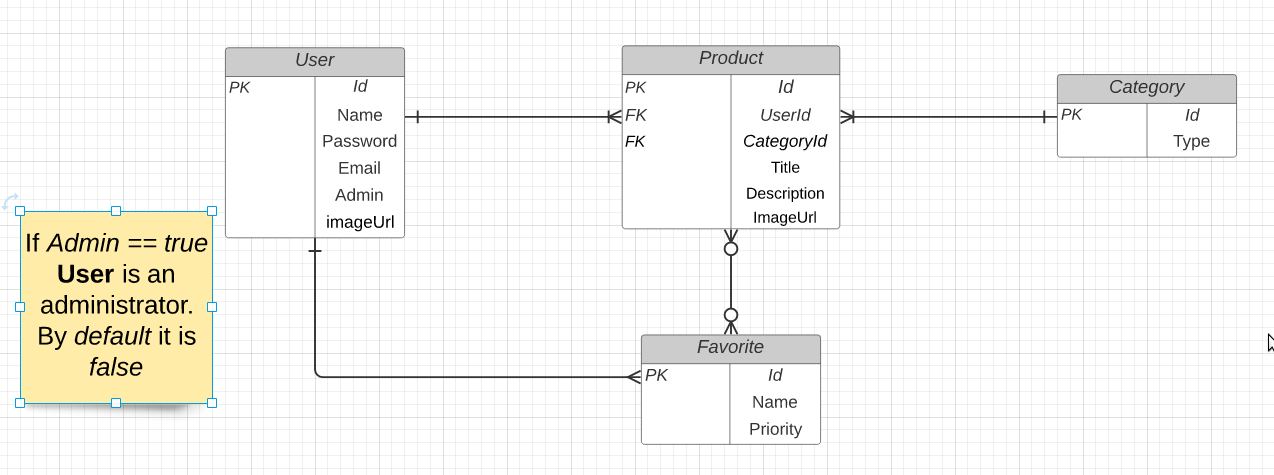
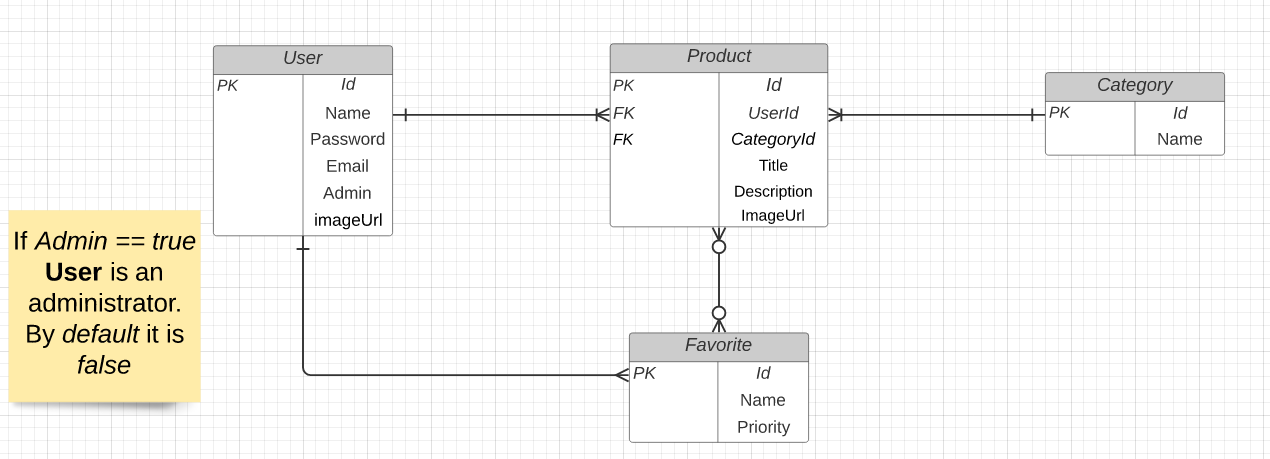
Add request specs for Category

diff --git a/spec/requests/categories_request_spec.rb b/spec/requests/categories_request_spec.rb
@@ -1,0 +1,98 @@
+require 'rails_helper'
+
+RSpec.describe 'Categories', type: :request do
+  let!(:categories) { create_list(:category, 10) }
+  let(:category_id) { categories.first.id }
+
+  describe 'GET /categories' do
+    before { get '/categories' }
+    it 'returns categories' do
+      expect(json).not_to be_empty
+      expect(json.size).to eq(10)
+    end
+
+    it 'returns status code 200' do
+      expect(response).to have_http_status(200)
+    end
+  end
+
+  describe 'GET /categories/:id' do
+    before { get "/categories/#{category_id}" }
+
+    context 'when the record exists' do
+      it 'returns the category' do
+        expect(json).not_to be_empty
+        expect(json['id']).to eq(category_id)
+      end
+
+      it 'returns status code 200' do
+        expect(response).to have_http_status(200)
+      end
+    end
+
+    context 'when the record does not exist' do
+      let(:category_id) { 100 }
+
+      it 'returns status code 404' do
+        expect(response).to have_http_status(404)
+      end
+
+      it 'returns a not found message' do
+        expect(response.body).to match(/Couldn't find Category/)
+      end
+    end
+  end
+
+  describe 'POST /categories' do
+    let(:valid_attributes) { { name: 'Learn Elm' } }
+
+    context 'when the request is valid' do
+      before { post '/categories', params: valid_attributes }
+
+      it 'creates a category' do
+        expect(json['name']).to eq('Learn Elm')
+      end
+
+      it 'returns status code 201' do
+        expect(response).to have_http_status(201)
+      end
+    end
+
+    context 'when the request is invalid' do
+      before { post '/categories', params: { name: '' } }
+
+      it 'returns status code 422' do
+        expect(response).to have_http_status(422)
+      end
+
+      it 'returns a validation failure message' do
+        expect(response.body)
+          .to match(/Validation failed: Name can't be blank/)
+      end
+    end
+  end
+
+  describe 'PUT /categories/:id' do
+    let(:valid_attributes) { { name: 'E-tech' } }
+
+    context 'when the record exists' do
+      before { put "/categories/#{category_id}", params: valid_attributes }
+
+      it 'updates the record' do
+        expect(response.body).to be_empty
+      end
+
+      it 'returns status code 204' do
+        expect(response).to have_http_status(204)
+      end
+    end
+  end
+
+  describe 'DELETE /categories/:id' do
+    before { delete "/categories/#{category_id}" }
+
+    it 'returns status code 204' do
+      expect(response).to have_http_status(204)
+    end
+  end
+end

diff --git a/spec/rails_helper.rb b/spec/rails_helper.rb
@@ -21,7 +21,7 @@ require 'rspec/rails'
 # directory. Alternatively, in the individual `*_spec.rb` files, manually
 # require only the support files necessary.
 #
-# Dir[Rails.root.join('spec', 'support', '**', '*.rb')].sort.each { |f| require f }
+Dir[Rails.root.join('spec', 'support', '**', '*.rb')].sort.each { |f| require f }
 
 # Checks for pending migrations and applies them before tests are run.
 # If you are not using ActiveRecord, you can remove these lines.
@@ -68,6 +68,7 @@ RSpec.configure do |config|
   config.filter_rails_from_backtrace!
   # arbitrary gems may also be filtered via:
   # config.filter_gems_from_backtrace("gem name")
+  config.include RequestSpecHelper, type: :request
   config.include FactoryBot::Syntax::Methods
 
   config.before(:suite) do

diff --git a/app/controllers/categories_controller.rb b/app/controllers/categories_controller.rb
@@ -1,0 +1,37 @@
+class CategoriesController < ApplicationController
+  before_action :set_category, only: %i[show update destroy]
+
+  def index
+    @categories = Category.all
+    json_response(@categories)
+  end
+
+  def create
+    @category = Category.create!(category_params)
+    json_response(@category, :created)
+  end
+
+  def show
+    json_response(@category)
+  end
+
+  def update
+    @category.update(category_params)
+    head :no_content
+  end
+
+  def destroy
+    @category.destroy
+    head :no_content
+  end
+
+  private
+
+  def category_params
+    params.permit(:name)
+  end
+
+  def set_category
+    @category = Category.find(params[:id])
+  end
+end

diff --git a/app/controllers/concerns/exception_handler.rb b/app/controllers/concerns/exception_handler.rb
@@ -1,0 +1,13 @@
+module ExceptionHandler
+  extend ActiveSupport::Concern
+
+  included do
+    rescue_from ActiveRecord::RecordNotFound do |e|
+      json_response({ message: e.message }, :not_found)
+    end
+
+    rescue_from ActiveRecord::RecordInvalid do |e|
+      json_response({ message: e.message }, :unprocessable_entity)
+    end
+  end
+end

diff --git a/spec/factories/products.rb b/spec/factories/products.rb
@@ -1,0 +1,9 @@
+FactoryBot.define do
+  factory :product do
+    user_id { Faker::Number.number(10) }
+    category_id { Faker::Number.number(10) }
+    title { Faker::Lorem.word }
+    description { Faker::Lorem.word }
+    imageurl 'https://raw.githubusercontent.com/rindrajosia/back_end/feature/docs/erd_final.png'
+  end
+end

diff --git a/db/schema.rb b/db/schema.rb
@@ -16,7 +16,7 @@ ActiveRecord::Schema.define(version: 2021_02_23_204532) do
   enable_extension "plpgsql"
 
   create_table "categories", force: :cascade do |t|
-    t.string "type"
+    t.string "name"
     t.datetime "created_at", precision: 6, null: false
     t.datetime "updated_at", precision: 6, null: false
   end

diff --git a/spec/factories/users.rb b/spec/factories/users.rb
@@ -1,0 +1,9 @@
+FactoryBot.define do
+  factory :user do
+    name { Faker::Name.name }
+    email 'foo@bar.com'
+    password_digest 'foobar'
+    admin false
+    imageurl 'https://raw.githubusercontent.com/rindrajosia/back_end/feature/docs/erd_final.png'
+  end
+end

diff --git a/spec/models/category_spec.rb b/spec/models/category_spec.rb
@@ -2,5 +2,5 @@ require 'rails_helper'
 
 RSpec.describe Category, type: :model do
   it { should have_many(:products).dependent(:destroy) }
-  it { should validate_presence_of(:type) }
+  it { should validate_presence_of(:name) }
 end

diff --git a/db/migrate/20210223195933_create_categories.rb b/db/migrate/20210223195933_create_categories.rb
@@ -1,7 +1,7 @@
 class CreateCategories < ActiveRecord::Migration[6.1]
   def change
     create_table :categories do |t|
-      t.string :type
+      t.string :name
 
       t.timestamps
     end

diff --git a/spec/factories/favorites.rb b/spec/factories/favorites.rb
@@ -1,0 +1,7 @@
+FactoryBot.define do
+  factory :favorite do
+    user_id { Faker::Number.number(10) }
+    name { Faker::Name.name }
+    priority { Faker::Number.number(4) }
+  end
+end

diff --git a/config/routes.rb b/config/routes.rb
@@ -1,3 +1,3 @@
 Rails.application.routes.draw do
-  # For details on the DSL available within this file, see https://guides.rubyonrails.org/routing.html
+  resources :categories
 end

diff --git a/spec/factories/favorite_products.rb b/spec/factories/favorite_products.rb
@@ -1,0 +1,6 @@
+FactoryBot.define do
+  factory :favorite_product do
+    product_id { Faker::Number.number(10) }
+    favorite_id { Faker::Number.number(4) }
+  end
+end
